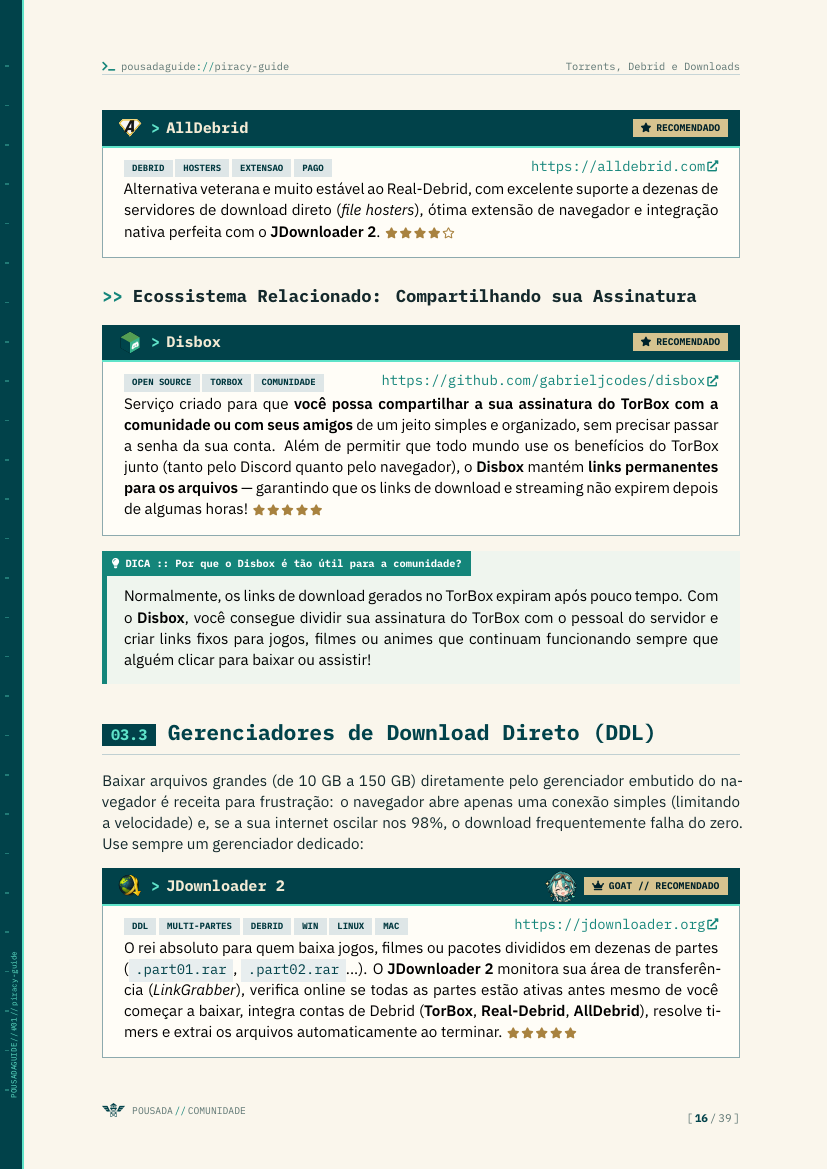
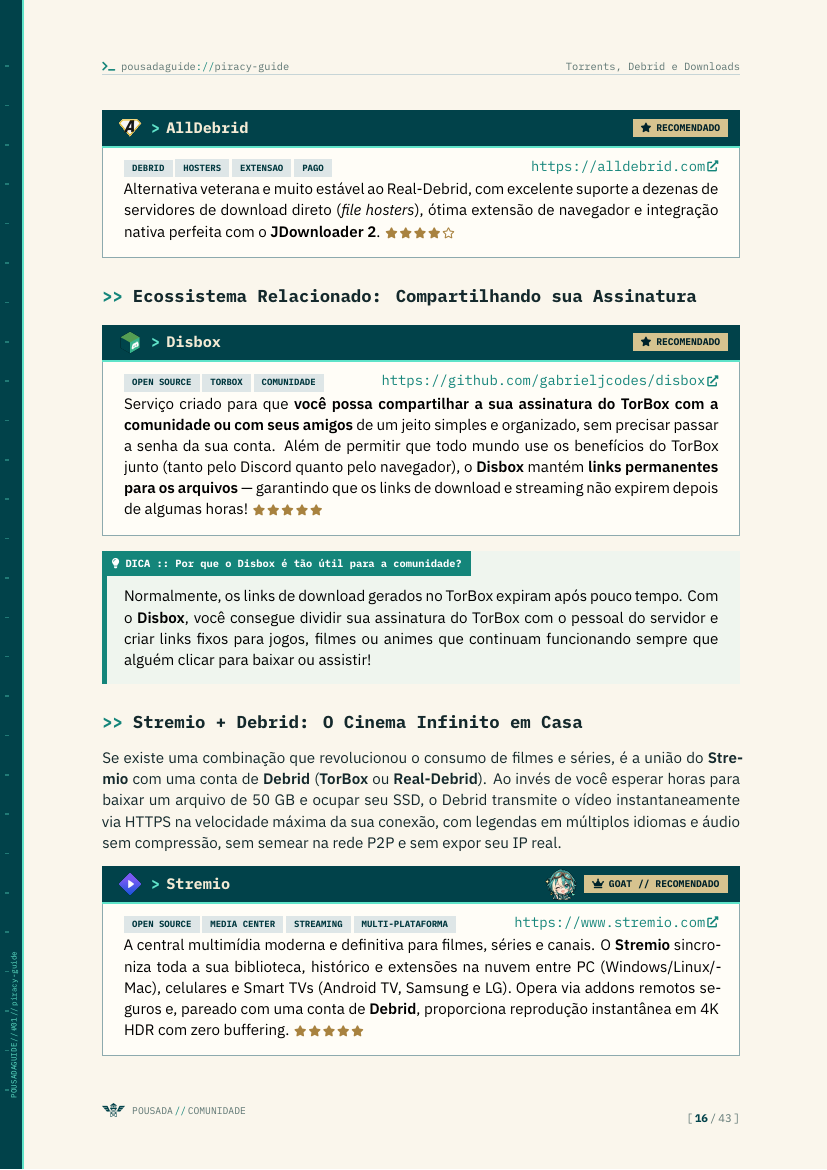
feat(piracy): add Stremio, Seanime, Shiru, Debrid addons and Hydra sources (v1.1)
- Stremio: media center ficha (GOAT) + AIOStreams (GOAT) and Comet (Debrid scraping addons)
- Anime: Seanime (GOAT), Shiru (GOAT fork of Hayase), Hayase, anitorrent, Anilili
- Hydra Launcher: canonical sources directory (library.hydra.wiki/sources)
- Bump version to v1.1 (43 pages) and refresh banners and previews

Changed region(s): [[0.1209, 0.6154, 0.9069, 0.8923]]

diff --git a/Piracy/piracy.tex b/Piracy/piracy.tex
@@ -19,7 +19,7 @@
 \guiasubtitulo{Como navegar sem armadilhas, baixar com segurança e dominar as melhores ferramentas e Megathreads.}
 \guiaslug{piracy-guide}
 \guiacategoria{segurança \& opsec}
-\guiaversao{v1.0}
+\guiaversao{v1.1}
 \guiaautor{Bakalhau}
 \guiadata{novembro de 2026}
 \guialicenca{GNU AGPLv3}
@@ -284,6 +284,7 @@ Só instale scripts hospedados no \textbf{Codeberg}, \textbf{GitHub} ou \textbf{
 \begin{itemize}
   \item Configurar o cliente de torrent definitivo (\textbf{qBittorrent}) e banir clientes cheios de adware (\textbf{µTorrent/BitTorrent}).
   \item Entender como funcionam os serviços de \textbf{Debrid} (\textbf{TorBox}, \textbf{Real-Debrid}, \textbf{AllDebrid}) e por que eles mudam o jogo.
+  \item Integrar o \textbf{Stremio} com Debrid usando os melhores addons da atualidade (\textbf{AIOStreams} e \textbf{Comet}).
   \item Acelerar downloads diretos (DDL) em múltiplas conexões com \textbf{Motrix} e \textbf{JDownloader 2}.
 \end{itemize}
 \end{missao}
@@ -350,6 +351,26 @@ Serviço criado para que \textbf{você possa compartilhar a sua assinatura do To
 
 \begin{dica}[Por que o Disbox é tão útil para a comunidade?]
 Normalmente, os links de download gerados no TorBox expiram após pouco tempo. Com o \textbf{Disbox}, você consegue dividir sua assinatura do TorBox com o pessoal do servidor e criar links fixos para jogos, filmes ou animes que continuam funcionando sempre que alguém clicar para baixar ou assistir!
+\end{dica}
+
+\subsection{Stremio + Debrid: O Cinema Infinito em Casa}
+
+Se existe uma combinação que revolucionou o consumo de filmes e séries, é a união do \textbf{Stremio} com uma conta de \textbf{Debrid} (\textbf{TorBox} ou \textbf{Real-Debrid}). Ao invés de você esperar horas para baixar um arquivo de 50 GB e ocupar seu SSD, o Debrid transmite o vídeo instantaneamente via HTTPS na velocidade máxima da sua conexão, com legendas em múltiplos idiomas e áudio sem compressão, sem semear na rede P2P e sem expor seu IP real.
+
+\begin{ferramenta}[goat,logo=stremio]{Stremio}{https://www.stremio.com}{open source, media center, streaming, multi-plataforma}
+A central multimídia moderna e definitiva para filmes, séries e canais. O \textbf{Stremio} sincroniza toda a sua biblioteca, histórico e extensões na nuvem entre PC (Windows/Linux/Mac), celulares e Smart TVs (Android TV, Samsung e LG). Opera via addons remotos seguros e, pareado com uma conta de \textbf{Debrid}, proporciona reprodução instantânea em 4K HDR com zero buffering. \estrelas{5}
+\end{ferramenta}
+
+\begin{ferramenta}[goat,logo=aiostreams]{AIOStreams}{https://github.com/Viren070/AIOStreams}{open source, stremio, agregador, debrid, usenet}
+O agregador definitivo (\emph{All-In-One}). Em vez de instalar dezenas de addons individuais no Stremio (que deixam o aplicativo pesado), o \textbf{AIOStreams} centraliza e orquestra os melhores scrapers da comunidade (\emph{Torrentio}, \emph{Comet}, \emph{MediaFusion}, \emph{TorBox Scraper}, etc.) sob uma única extensão. Permite filtrar fontes por idioma (priorizando áudio dublado e legendas em português), ordenar por velocidade e configurar múltiplos Debrids. \estrelas{5}
+\end{ferramenta}
+
+\begin{ferramenta}[recomendado,logo=comet]{Comet}{https://github.com/g0ldyy/comet}{open source, stremio, scraper ultrarrapido, debrid, cache}
+Desenvolvido em Python assíncrono (\emph{FastAPI}), o \textbf{Comet} é o scraper mais rápido do Stremio. Integra-se nativamente a indexadores Prowlarr/Zilean, possui sistema próprio de cache instantâneo de Debrid (\textbf{TorBox}, \textbf{Real-Debrid}, \textbf{AllDebrid}, \textbf{Premiumize}) e proxy integrado para contornar restrições de IP. É a melhor opção de fonte redundante no AIOStreams quando outros addons enfrentam filas. \estrelas{5}
+\end{ferramenta}
+
+\begin{dica}[E o famoso Torrentio?]
+O \textbf{Torrentio} foi o addon veterano que popularizou o Debrid no Stremio. Ele continua sendo ótimo, mas sua infraestrutura pública frequentemente sofre com lentidão em horários de pico. A melhor prática moderna é configurar o \textbf{AIOStreams} incluindo o \textbf{Comet} e o \textbf{TorBox/Torrentio} como fontes: se um oscilar, o outro assume na hora sem travar seu filme!
 \end{dica}
 
 \section{Gerenciadores de Download Direto (DDL)}
@@ -437,8 +458,15 @@ $ hatchzip x Jogo_Dividido.7z.001
 Criado por desenvolvedores brasileiros e adotado no mundo inteiro, o \textbf{Hydra Launcher} transforma a experiência de baixar e organizar jogos alternativos em algo tão prático quanto usar a própria Steam. Ele conta com catálogo completo de jogos, gerenciador de downloads integrado (BitTorrent + HTTP direto + suporte nativo a \textbf{TorBox} e \textbf{Real-Debrid}), sistema de conquistas, contagem de horas jogadas e perfil social. \estrelas{5}
 \end{ferramenta}
 
-\begin{pousadinha}[Como funcionam as Fontes (Sources) no Hydra?]
-Por questões legais e de segurança, o \textbf{Hydra Launcher} vem ``vazio'' de links por padrão. Você adiciona as chamadas \textbf{Fontes (Hydra Sources)} através de links JSON curados pela comunidade (que indexam apenas releases oficiais da \emph{FitGirl}, \emph{DODI}, \emph{SteamRIP}, \emph{Online-Fix}, \emph{GOG}, etc.). Sempre pegue seus links JSON de fontes listadas nas Megathreads oficiais (Capítulo 07) — nunca adicione fontes JSON de desconhecidos!
+\begin{pousadinha}[Onde encontrar as Fontes (Sources) do Hydra com segurança?]
+Por questões legais e de segurança, o \textbf{Hydra Launcher} vem ``vazio'' de links por padrão. Você precisa adicionar as chamadas \textbf{Fontes (Hydra Sources)}, que são URLs em formato JSON com o catálogo de jogos indexados diretamente de repackers e grupos confiáveis (\emph{FitGirl}, \emph{DODI}, \emph{SteamRIP}, \emph{Empress}, \emph{Online-Fix}, \emph{GOG}, etc.).
+
+\textbf{O lugar oficial e curado pela comunidade para pegar sources verificadas é:}
+\begin{center}
+\pglink[library.hydra.wiki/sources]{https://library.hydra.wiki/sources}
+\end{center}
+
+Basta abrir a biblioteca no navegador, copiar os links das fontes desejadas e colar no Hydra em \textbf{Configurações $\rightarrow$ Fontes de Download $\rightarrow$ Adicionar Fonte}. \textbf{Atenção:} nunca adicione links JSON de pessoas desconhecidas no Discord ou no Telegram, pois fontes maliciosas podem apontar para instaladores adulterados com malware!
 \end{pousadinha}
 
 \section{Players de Mídia (Vídeo e Áudio)}
@@ -671,7 +699,7 @@ Urban / Hola / Opera & ``Grátis'' & \nope  & Ruim  & \pgtag[pgAlert]{evite} Ven
 \begin{itemize}
   \item Entender por que nunca devemos confiar em links estáticos isolados, mas sim em \textbf{Megathreads vivas}.
   \item Favoritar os 4 grandes diretórios gerais de Jogos, Programas, Filmes, Livros e Músicas.
-  \item Dominar os índices especializados em cultura Otaku e as comunidades seguras de conteúdo \textbf{NSFW (+18)} (Anime/Hentai e IRL).
+  \item Dominar os índices especializados em cultura Otaku, os clientes modernos de streaming de animes (\textbf{Seanime}, \textbf{Shiru}, \textbf{Anilili}) e as comunidades seguras de conteúdo \textbf{NSFW (+18)} (Anime/Hentai e IRL).
 \end{itemize}
 \end{missao}
 
@@ -712,6 +740,39 @@ Muito mais do que uma lista de links, a \textbf{Wotaku.wiki} é uma enciclopédi
 \begin{ferramenta}[recomendado,logo=theindex]{TheIndex.moe}{https://theindex.moe}{catalogo otaku, filtros visuais, apps, comunidades}
 Catálogo visual extremamente limpo que permite filtrar sites de animes, mangás e novels por idioma, presença ou ausência de anúncios, qualidade de vídeo (1080p / Blu-ray), suporte a aplicativos Android/iOS e tipos de mídia. \estrelas{4}
 \end{ferramenta}
+
+\subsection{Clientes e Players de Anime: O Streaming P2P Moderno}
+
+Para quem consome animes com frequência, a era de sofrer com players travando em sites repletos de anúncios invasivos ou de gerenciar downloads manuais no navegador acabou. A comunidade desenvolveu ecossistemas completos de código aberto que unem busca de torrents em alta fidelidade (\emph{Nyaa.si} / \emph{SeaDex}), reprodução instantânea via streaming e sincronização automática com a sua lista no \textbf{AniList} ou \textbf{MyAnimeList}:
+
+\begin{ferramenta}[goat,logo=seanime]{Seanime}{https://seanime.app}{open source, anime, manga, torrent, debrid, anilist, win, linux, mac}
+O centro de mídia definitivo para cultura otaku no computador. Desenvolvido em Go + TypeScript, o \textbf{Seanime} roda como um servidor local ultrarrápido com interface gráfica deslumbrante. Ele sincroniza episódios assistidos automaticamente no seu \textbf{AniList}, conta com player embutido movido pelo poderoso motor do \textbf{mpv} (com suporte nativo a shaders \emph{Anime4K} para upscaling em tempo real), reproduz torrents diretamente sem esperar o download terminar, suporta contas de Debrid (\textbf{TorBox} e \textbf{Real-Debrid}), inclui leitor nativo de mangás e automação inteligente por RSS para baixar lançamentos da temporada sozinho. \estrelas{5}
+\end{ferramenta}
+
+\begin{ferramenta}[goat,logo=shiru]{Shiru}{https://shiru.app}{open source, anime, torrent streaming, anilist, win, linux, mac, android}
+Fork comunitário aprimorado e independente do \emph{Hayase}. Criado pela comunidade para entregar um aplicativo desktop e mobile focado em streaming direto de torrents de anime com zero tempo de espera, interface escura moderna e sincronização instantânea com o \textbf{AniList}. O projeto surgiu após graves atritos com a governança fechada e o comportamento tóxico/contencioso do criador original do Hayase, trazendo melhorias consistentes de performance, correção de falhas antigas e uma equipe de desenvolvimento verdadeiramente acolhedora e aberta a contribuições. \estrelas{5}
+\end{ferramenta}
+
+\begin{ferramenta}[logo=hayase]{Hayase}{https://hayase.watch}{anime, torrent streaming, anilist, desktop}
+O aplicativo que originalmente popularizou a ideia de streaming P2P direto para um player de anime com rastreamento no AniList. Embora funcional para quem já o possui instalado, o projeto sofreu com o abandono de extensões e posturas polêmicas de seu mantenedor principal. A recomendação atual da comunidade é migrar para o fork ativo \textbf{Shiru} ou recorrer ao pacote de extensões \textbf{anitorrent}. \estrelas{3}
+\end{ferramenta}
+
+\begin{ferramenta}[recomendado,logo=anitorrent]{anitorrent}{https://github.com/anh9000/anitorrent}{open source, hayase, shiru, fontes nyaa, seadex, auto-update}
+Pacote de extensões indispensável para usuários de \textbf{Hayase} e \textbf{Shiru}. Como os scrapers nativos antigos foram descontinuados e pararam de encontrar fontes, o \textbf{anitorrent} resolve a busca de forma definitiva fornecendo 6 fontes de torrents auto-atualizáveis (\emph{Nyaa.si}, \emph{AnimeTosho}, \emph{SeaDex}, \emph{SubsPlease}, \emph{Yameii dubs} e \emph{ToonsHub}) através de um único link de importação no menu de extensões. \estrelas{5}
+\end{ferramenta}
+
+\begin{ferramenta}[recomendado,logo=anilili]{Anilili}{https://github.com/sanilili/Anilili}{open source, android, android tv, danmaku, anilist, streaming}
+Aplicativo nativo escrito em Kotlin e Jetpack Compose para \textbf{Android e Android TV / Fire TV}. Além de catálogo ágil com reprodução multi-fontes, download para assistir offline e sincronização com AniList/MAL, o grande diferencial do \textbf{Anilili} é o suporte a \textbf{Danmaku} — comentários da comunidade que passam flutuando pela tela em tempo real sincronizados com as cenas do episódio (estilo \emph{Bilibili} e \emph{Niconico}), trazendo a diversão e a resenha de assistir junto com a comunidade direto na sua TV! \estrelas{5}
+\end{ferramenta}
+
+\begin{tabela}{>{\bfseries}l c c c c X}
+\cab{Aplicativo} & \cab{Livre} & \cab{Torrent / Debrid} & \cab{AniList} & \cab{Plataforma} & \cab{Destaque Principal} \\
+Seanime \goat   & \ok & \ok & \ok & Desktop / Web & Media center supremo, mpv Anime4K, mangás e RSS \\
+Shiru \goat     & \ok & \ok & \ok & Win / Mac / Linux / Android & Fork ativo e aprimorado do Hayase, rápido e moderno \\
+Anilili         & \ok & \ok & \ok & Android / TV  & Danmaku (comentários na tela), perfeito para TV \\
+Hayase          & \ok & \ok & \ok & Desktop       & Pioneiro original (recomendado migrar para o Shiru) \\
+anitorrent      & \ok & \ok & --- & Extensões     & Repositório de fontes Nyaa/SeaDex para Shiru e Hayase \\
+\end{tabela}
 
 \section{Índices e Comunidades NSFW (+18)}
 
@@ -767,7 +828,8 @@ Antes de começar sua jornada de downloads, passe os olhos nesta lista de verifi
   \feito \textbf{7-Zip / NanaZip} e \textbf{HatchZip} instalados no lugar do WinRAR.
   \feito \textbf{Motrix} ou \textbf{JDownloader 2} configurados para downloads diretos grandes.
   \feito Megathreads (\textbf{FMHY}, \textbf{r/Piracy}, \textbf{Pirataria.link} e \textbf{EverythingMoe}) salvas na barra de favoritos.
-  \opcional Serviço de Debrid (\textbf{TorBox}) contratado e integrado ao \textbf{Hydra Launcher} / \textbf{Stremio}.
+  \opcional Serviço de Debrid (\textbf{TorBox}) integrado ao \textbf{Hydra Launcher} e ao \textbf{Stremio} (via \textbf{AIOStreams} e \textbf{Comet}).
+  \opcional Clientes modernos de anime (\textbf{Seanime}, \textbf{Shiru} ou \textbf{Anilili}) conectados ao \textbf{AniList}.
   \opcional \textbf{Proton VPN} ou \textbf{Mullvad VPN} configurada via \textbf{WireGuard} e vinculada ao qBittorrent.
   \opcional Ambiente de isolamento (\textbf{Bottles} no Linux ou \textbf{Windows Sandbox} no Windows) pronto para arquivos duvidosos.
 \end{checklist}

diff --git a/docs/banner/banner-piracy.tex b/docs/banner/banner-piracy.tex
@@ -84,7 +84,7 @@
   % chips
   \coordinate (chipx) at (64,182);
   \chip{pgKhaki}{pgVoid}{\#01 PIRACY}
-  \chip{pgGlow}{pgVoid}{39 PÁG}
+  \chip{pgGlow}{pgVoid}{43 PÁG}
   \chip{pgVoid}{pgCream}{PDF}
   \chip{pgVoid}{pgCream}{MEGATHREAD}
   \chip{pgVoid}{pgCream}{OPSEC}

diff --git a/README.md b/README.md
@@ -29,7 +29,7 @@ Cada guia é um PDF bonito, organizado e revisado pela comunidade — gerado a p
 
 | | Guia | Conteúdo | Download |
 |:-:|---|---|:-:|
-| <a href="#01--piracy-guide"><img src="docs/previews/piracy-capa.png" width="110" alt="Capa Piracy Guide"></a> | [**#01 — Piracy Guide**](#01--piracy-guide)<br><sub>segurança & opsec · v1.0 · 39 páginas</sub> | Como navegar sem armadilhas, baixar com segurança e dominar as melhores ferramentas e Megathreads. Inspirado na Megathread do `r/Piracy` e no FMHY. | [**Tela**](https://github.com/a-pousada/PousadaGuides/releases/latest/download/PousadaGuide-01-Piracy.pdf)<br>[Impressão](https://github.com/a-pousada/PousadaGuides/releases/latest/download/PousadaGuide-01-Piracy-impressao.pdf) |
+| <a href="#01--piracy-guide"><img src="docs/previews/piracy-capa.png" width="110" alt="Capa Piracy Guide"></a> | [**#01 — Piracy Guide**](#01--piracy-guide)<br><sub>segurança & opsec · v1.1 · 43 páginas</sub> | Como navegar sem armadilhas, baixar com segurança e dominar as melhores ferramentas e Megathreads. Inspirado na Megathread do `r/Piracy` e no FMHY. | [**Tela**](https://github.com/a-pousada/PousadaGuides/releases/latest/download/PousadaGuide-01-Piracy.pdf)<br>[Impressão](https://github.com/a-pousada/PousadaGuides/releases/latest/download/PousadaGuide-01-Piracy-impressao.pdf) |
 | — | **#00 — Guia de Exemplo** | Tour por todos os componentes do sistema visual (para quem vai escrever guias). | [PDF](https://github.com/a-pousada/PousadaGuides/releases/latest/download/PousadaGuide-00-Exemplo.pdf) |
 
 > [!TIP]

diff --git a/Piracy/README.md b/Piracy/README.md
@@ -7,7 +7,7 @@
 # PousadaGuide #01 — Piracy Guide
 
 **Como navegar sem armadilhas, baixar com segurança e dominar as melhores ferramentas e Megathreads.**<br>
-<sub>Inspirado na lendária Megathread do <code>r/Piracy</code> e no FMHY · 39 páginas revisadas pela comunidade</sub>
+<sub>Inspirado na lendária Megathread do <code>r/Piracy</code> e no FMHY · 43 páginas revisadas pela comunidade</sub>
 
 <br>
 
